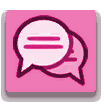
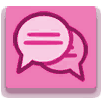
Handful of improvements
Bugfixes
- Fix seer getting extended uses
Addtions
- Add better Hunter task options
- Update chatbox visuals

diff --git a/TownOfUs/Patches/Options/TeamChatPatches.cs b/TownOfUs/Patches/Options/TeamChatPatches.cs
@@ -29,7 +29,6 @@ public static class TeamChatPatches
     public static Color OriginalActive;
     public static Color OriginalInactive;
     public static Color OriginalSelected;
-    public static Color chatColor = new Color32(218, 140, 152, 255);
     public static bool calledByChatUpdate;
     public static GameObject? PrivateChatDot;
 
@@ -128,12 +127,9 @@ public static class TeamChatPatches
             }
 
             Background.GetComponent<SpriteRenderer>().color = new Color(0.2f, 0.1f, 0.1f, 0.8f);
-            OriginalInactive = HudManager.Instance.Chat.chatButton.transform.Find("Inactive").GetComponent<SpriteRenderer>().color;
-            OriginalActive = HudManager.Instance.Chat.chatButton.transform.Find("Active").GetComponent<SpriteRenderer>().color;
-            OriginalSelected = HudManager.Instance.Chat.chatButton.transform.Find("Selected").GetComponent<SpriteRenderer>().color;
-            HudManager.Instance.Chat.chatButton.transform.Find("Inactive").GetComponent<SpriteRenderer>().color = chatColor;
-            HudManager.Instance.Chat.chatButton.transform.Find("Active").GetComponent<SpriteRenderer>().color = chatColor;
-            HudManager.Instance.Chat.chatButton.transform.Find("Selected").GetComponent<SpriteRenderer>().color = chatColor;
+            HudManager.Instance.Chat.chatButton.transform.Find("Inactive").GetComponent<SpriteRenderer>().sprite = TouChatAssets.TeamChatIdle.LoadAsset();
+            HudManager.Instance.Chat.chatButton.transform.Find("Active").GetComponent<SpriteRenderer>().sprite = TouChatAssets.TeamChatHover.LoadAsset();
+            HudManager.Instance.Chat.chatButton.transform.Find("Selected").GetComponent<SpriteRenderer>().sprite = TouChatAssets.TeamChatOpen.LoadAsset();
 
             if ((PlayerControl.LocalPlayer.IsJailed() ||
                  PlayerControl.LocalPlayer.Data.Role is JailorRole) && _teamText != null)
@@ -189,9 +185,9 @@ public static class TeamChatPatches
             calledByChatUpdate = true;
             chat.AlignAllBubbles();
             Background.GetComponent<SpriteRenderer>().color = Color.white;
-            HudManager.Instance.Chat.chatButton.transform.Find("Inactive").GetComponent<SpriteRenderer>().color = OriginalInactive;
-            HudManager.Instance.Chat.chatButton.transform.Find("Active").GetComponent<SpriteRenderer>().color = OriginalActive;
-            HudManager.Instance.Chat.chatButton.transform.Find("Selected").GetComponent<SpriteRenderer>().color = OriginalSelected;
+            HudManager.Instance.Chat.chatButton.transform.Find("Inactive").GetComponent<SpriteRenderer>().sprite = TouChatAssets.NormalChatIdle.LoadAsset();
+            HudManager.Instance.Chat.chatButton.transform.Find("Active").GetComponent<SpriteRenderer>().sprite = TouChatAssets.NormalChatHover.LoadAsset();
+            HudManager.Instance.Chat.chatButton.transform.Find("Selected").GetComponent<SpriteRenderer>().sprite = TouChatAssets.NormalChatOpen.LoadAsset();
             /* typeBg.GetComponent<SpriteRenderer>().color = Color.white;
             typeBg.GetComponent<ButtonRolloverHandler>().ChangeOutColor(Color.white);
             typeBg.GetComponent<ButtonRolloverHandler>().OverColor = new Color(0f, 1f, 0f, 1f);

diff --git a/TownOfUs/Assets/TouChatAssets.cs b/TownOfUs/Assets/TouChatAssets.cs
@@ -10,17 +10,17 @@ public static class TouChatAssets
     public static LoadableAsset<Sprite> ImpBubble { get; } = new LoadableResourceAsset($"{ChatPath}.ChatImpBubble.png");
     public static LoadableAsset<Sprite> JailBubble { get; } = new LoadableResourceAsset($"{ChatPath}.ChatJailBubble.png");
     public static LoadableAsset<Sprite> VampBubble { get; } = new LoadableResourceAsset($"{ChatPath}.ChatVampBubble.png");
-    public static LoadableAsset<Sprite> TeamChatIdle { get; } = new LoadableResourceAsset($"{ChatPath}.TeamChatIdle.png");
-    public static LoadableAsset<Sprite> TeamChatHover { get; } = new LoadableResourceAsset($"{ChatPath}.TeamChatHover.png");
-    public static LoadableAsset<Sprite> TeamChatOpen { get; } = new LoadableResourceAsset($"{ChatPath}.TeamChatOpen.png");
+    public static LoadableAsset<Sprite> TeamChatIdle { get; } = new LoadableResourceAsset($"{ChatPath}.TeamChatIdle.png", 101f);
+    public static LoadableAsset<Sprite> TeamChatHover { get; } = new LoadableResourceAsset($"{ChatPath}.TeamChatHover.png", 101f);
+    public static LoadableAsset<Sprite> TeamChatOpen { get; } = new LoadableResourceAsset($"{ChatPath}.TeamChatOpen.png", 101f);
 
     public static LoadableAsset<Sprite> LoveBubble { get; } = new LoadableResourceAsset($"{ChatPath}.ChatLoveBubble.png");
-    public static LoadableAsset<Sprite> LoveChatIdle { get; } = new LoadableResourceAsset($"{ChatPath}.LoveChatIdle.png");
-    public static LoadableAsset<Sprite> LoveChatHover { get; } = new LoadableResourceAsset($"{ChatPath}.LoveChatHover.png");
-    public static LoadableAsset<Sprite> LoveChatOpen { get; } = new LoadableResourceAsset($"{ChatPath}.LoveChatOpen.png");
+    public static LoadableAsset<Sprite> LoveChatIdle { get; } = new LoadableResourceAsset($"{ChatPath}.LoveChatIdle.png", 101f);
+    public static LoadableAsset<Sprite> LoveChatHover { get; } = new LoadableResourceAsset($"{ChatPath}.LoveChatHover.png", 101f);
+    public static LoadableAsset<Sprite> LoveChatOpen { get; } = new LoadableResourceAsset($"{ChatPath}.LoveChatOpen.png", 101f);
     
     public static LoadableAsset<Sprite> NormalBubble { get; } = new LoadableResourceAsset($"{ChatPath}.ChatBubble.png");
-    public static LoadableAsset<Sprite> NormalChatIdle { get; } = new LoadableResourceAsset($"{ChatPath}.NormalChatIdle.png");
-    public static LoadableAsset<Sprite> NormalChatHover { get; } = new LoadableResourceAsset($"{ChatPath}.NormalChatHover.png");
-    public static LoadableAsset<Sprite> NormalChatOpen { get; } = new LoadableResourceAsset($"{ChatPath}.NormalChatOpen.png");
+    public static LoadableAsset<Sprite> NormalChatIdle { get; } = new LoadableResourceAsset($"{ChatPath}.NormalChatIdle.png", 101f);
+    public static LoadableAsset<Sprite> NormalChatHover { get; } = new LoadableResourceAsset($"{ChatPath}.NormalChatHover.png", 101f);
+    public static LoadableAsset<Sprite> NormalChatOpen { get; } = new LoadableResourceAsset($"{ChatPath}.NormalChatOpen.png", 101f);
 }

diff --git a/TownOfUs/Options/Roles/Crewmate/EngineerOptions.cs b/TownOfUs/Options/Roles/Crewmate/EngineerOptions.cs
@@ -11,7 +11,7 @@ public sealed class EngineerOptions : AbstractOptionGroup<EngineerTouRole>
     public override string GroupName => TouLocale.Get("TouRoleEngineer", "Engineer");
     public ModdedNumberOption MaxVents { get; } = new("TouOptionEngineerMaxVents", -1f, -1f, 30f, 1f, "0", "∞", MiraNumberSuffixes.None, "0");
 
-    public ModdedNumberOption VentPerTasks { get; } = new("TouOptionEngineerVentPerTasks", 1f, 0f, 15f, 1f, "Off", "#", MiraNumberSuffixes.None, "0")
+    public ModdedNumberOption VentPerTasks { get; } = new("TouOptionEngineerVentPerTasks", 1f, 0f, 15f, 1f, "</b>Off<b>", "#", MiraNumberSuffixes.None, "0")
     {
         Visible = () => OptionGroupSingleton<EngineerOptions>.Instance.MaxVents != -1
     };
@@ -24,7 +24,7 @@ public sealed class EngineerOptions : AbstractOptionGroup<EngineerTouRole>
 
     public ModdedNumberOption MaxFixes { get; } = new("TouOptionEngineerMaxFixes", 2f, -1f, 15f, 1f, "0", "∞", MiraNumberSuffixes.None, "0");
 
-    public ModdedNumberOption FixPerTasks { get; } = new("TouOptionEngineerFixPerTasks", 3f, 0f, 15f, 1f, "Off", "#", MiraNumberSuffixes.None, "0")
+    public ModdedNumberOption FixPerTasks { get; } = new("TouOptionEngineerFixPerTasks", 3f, 0f, 15f, 1f, "</b>Off<b>", "#", MiraNumberSuffixes.None, "0")
     {
         Visible = () => OptionGroupSingleton<EngineerOptions>.Instance.MaxFixes != -1
     };

diff --git a/TownOfUs/Utilities/TouRoleUtils.cs b/TownOfUs/Utilities/TouRoleUtils.cs
@@ -1,8 +1,11 @@
 using System.Text;
+using MiraAPI.GameOptions;
 using MiraAPI.Modifiers;
 using MiraAPI.Roles;
 using MiraAPI.Utilities;
 using TownOfUs.Modifiers;
+using TownOfUs.Modules;
+using TownOfUs.Options.Modifiers.Alliance;
 using TownOfUs.Roles;
 using TownOfUs.Roles.Crewmate;
 using UnityEngine;
@@ -11,6 +14,22 @@ namespace TownOfUs.Utilities;
 
 public static class TouRoleUtils
 {
+    public static bool AreTeammates(PlayerControl player, PlayerControl other)
+    {
+        var playerRole = player.GetRoleWhenAlive();
+        var otherRole = other.GetRoleWhenAlive();
+        var flag = (player.IsImpostorAligned() && other.IsImpostorAligned()) ||
+                   playerRole.Role == otherRole.Role ||
+                   (player.IsLover() && other.IsLover());
+        return flag;
+    }
+
+    public static bool CanKill(PlayerControl player)
+    {
+        var canBetray = PlayerControl.LocalPlayer.IsLover() && OptionGroupSingleton<LoversOptions>.Instance.LoverKillTeammates;
+
+        return !(AreTeammates(PlayerControl.LocalPlayer, player) && canBetray && !player.IsLover());
+    }
     public static string GetRoleLocaleKey(this RoleBehaviour role)
     {
         var touRole = role as ITownOfUsRole;

diff --git a/TownOfUs/Options/Roles/Crewmate/HunterOptions.cs b/TownOfUs/Options/Roles/Crewmate/HunterOptions.cs
@@ -1,5 +1,6 @@
 using MiraAPI.GameOptions;
 using MiraAPI.GameOptions.Attributes;
+using MiraAPI.GameOptions.OptionTypes;
 using MiraAPI.Utilities;
 using TownOfUs.Roles.Crewmate;
 
@@ -17,9 +18,12 @@ public sealed class HunterOptions : AbstractOptionGroup<HunterRole>
 
     [ModdedNumberOption("TouOptionHunterStalkDuration", 5f, 60f, 2.5f, MiraNumberSuffixes.Seconds)]
     public float HunterStalkDuration { get; set; } = 25f;
+    public ModdedNumberOption StalkUses { get; } = new("TouOptionHunterStalkUses", 5f, -1f, 30f, 1f, "0", "∞", MiraNumberSuffixes.None, "0");
 
-    [ModdedNumberOption("TouOptionHunterStalkUses", 1f, 15f, 1f, MiraNumberSuffixes.None, "0")]
-    public float StalkUses { get; set; } = 5;
+    public ModdedNumberOption StalkPerTasks { get; } = new("TouOptionHunterStalksPerTasks", 1f, 0f, 15f, 1f, "</b>Off<b>", "#", MiraNumberSuffixes.None, "0")
+    {
+        Visible = () => OptionGroupSingleton<HunterOptions>.Instance.StalkUses != -1
+    };
 
     [ModdedToggleOption("TouOptionHunterTaskUses")]
     public bool TaskUses { get; set; } = true;

diff --git a/TownOfUs/Modules/GameHistory.cs b/TownOfUs/Modules/GameHistory.cs
@@ -213,14 +213,14 @@ public static class GameHistory
         //var role = RoleHistory.LastOrDefault(x => x.Key == player.PlayerId && !x.Value.IsDead);
         //return role.Value != null ? role.Value : null;
 
-        if (RoleWhenAlive.TryGetValue(player.PlayerId, out var role))
-        {
-            return role;
-        }
-
         if (!player.Data.IsDead)
         {
             return player.Data.Role;
+        }
+
+        if (RoleWhenAlive.TryGetValue(player.PlayerId, out var role))
+        {
+            return role;
         }
 
         var role2 = player.Data.RoleWhenAlive;

diff --git a/TownOfUs/Roles/Crewmate/SeerRole.cs b/TownOfUs/Roles/Crewmate/SeerRole.cs
@@ -89,12 +89,14 @@ public sealed class SeerRole(IntPtr cppPtr) : CrewmateRole(cppPtr), ITownOfUsRol
             {
                 ++intuitButton.UsesLeft;
                 intuitButton.SetUses(intuitButton.UsesLeft);
+                IntuitTarget = null;
             }
 
             if (GazeTarget != null)
             {
                 ++gazeButton.UsesLeft;
                 gazeButton.SetUses(gazeButton.UsesLeft);
+                GazeTarget = null;
             }
         }
     }
